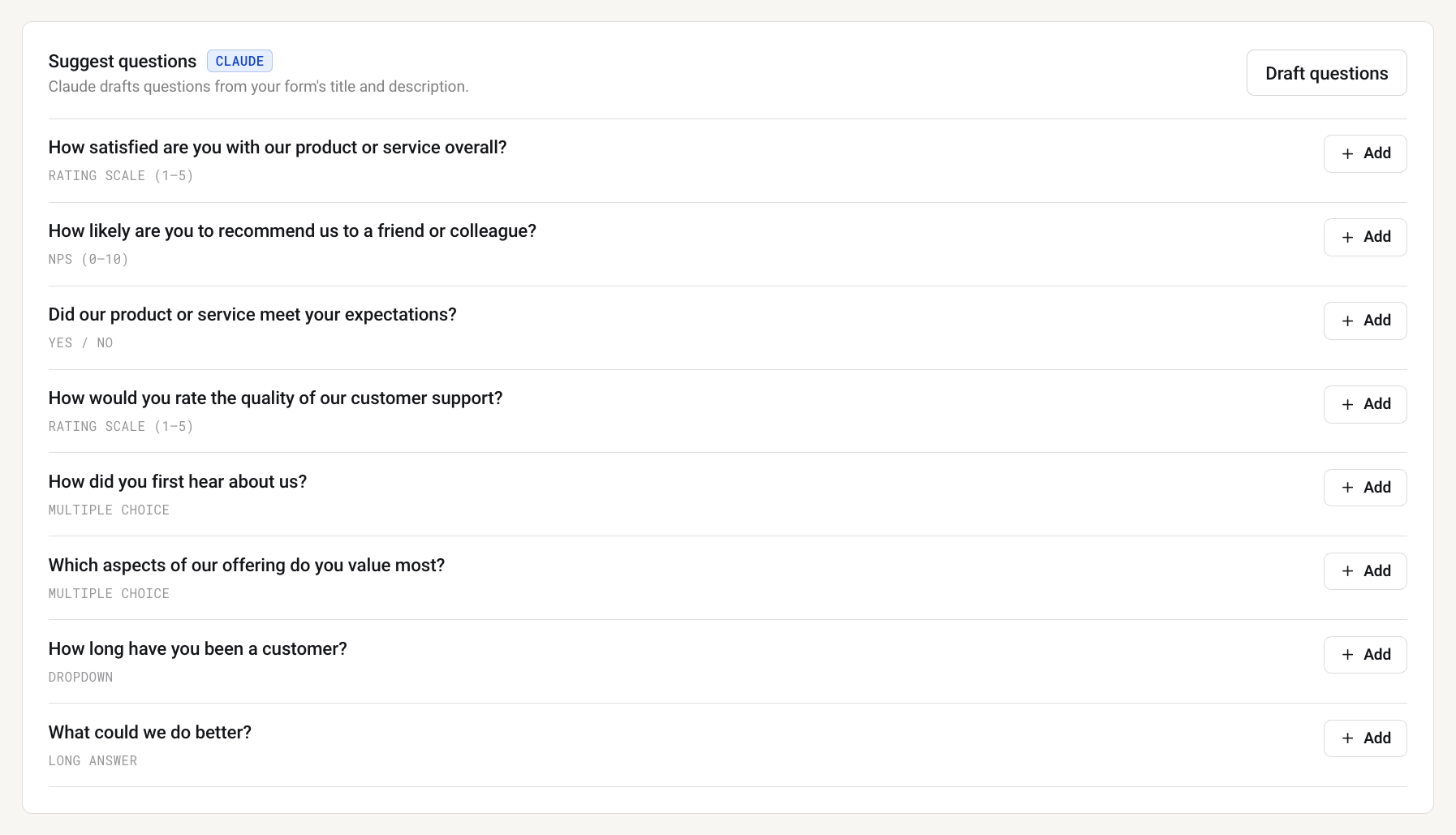
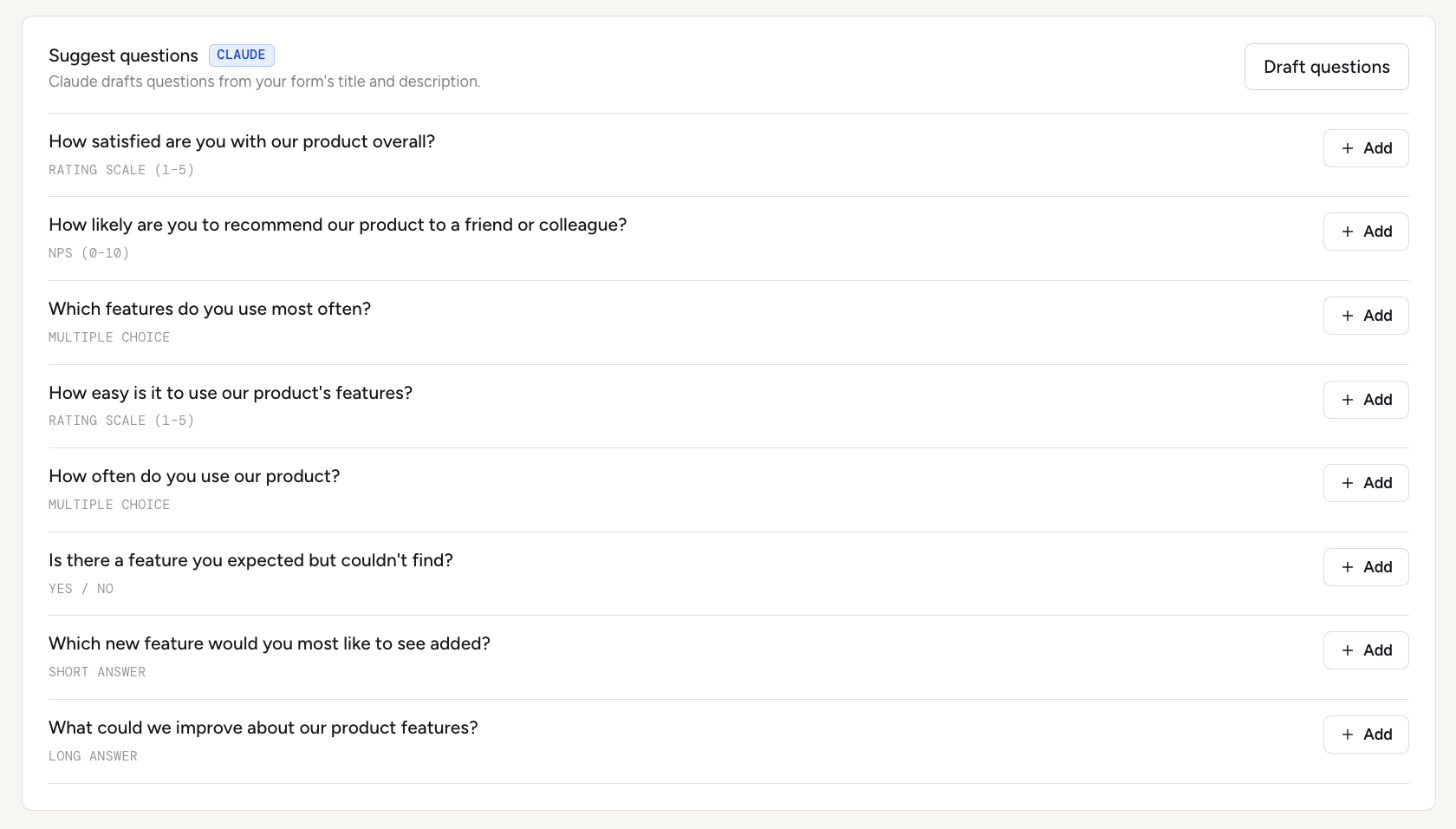
docs: retake OG image and README screenshots in Figtree + DM Mono

diff --git a/docs/screenshots/README.md b/docs/screenshots/README.md
@@ -6,13 +6,16 @@ Static screenshots referenced from the root [README.md](../../README.md). The he
 | File | Used for | Content |
 | --- | --- | --- |
 | `landing.png` | "The landing page" | Landing hero at 1440 × 900 |
-| `ai-suggestions.png` | "Drafting questions with Claude" | Real Claude suggestions in the editor of a live form |
+| `ai-suggestions.png` | "Drafting questions with Claude" | Real Claude suggestions in the editor of a draft form |
 | `fill.png` | "Filling a form" | A respondent mid-flow on a multi-select question, two options picked |
-| `analytics.png` | "Reading the results" | Metrics and the Claude summary on a real form's responses dashboard |
+| `analytics.png` | "Reading the results" | Ask your responses, metrics and the Claude summary on a real form's results page |
 
 `landing.png` and `fill.png` are taken at 2× device scale against the local dev server;
 `ai-suggestions.png` and `analytics.png` come from the signed-in production app. Both AI
 features only read data, so generating them for a screenshot changes nothing in the account.
 
-When capturing a real published form while signed out, block the `record_form_event` RPC so the
-visit doesn't add views to that form's funnel.
+When capturing a real published form while signed out, block the `record_form_event` and
+`save_response_progress` RPCs so the visit adds no views or partial responses to that form.
+
+All images were retaken on 2026-11-13 after the switch to Figtree + DM Mono; `og-image.png` is
+rendered from an HTML card at 1200 × 630.
